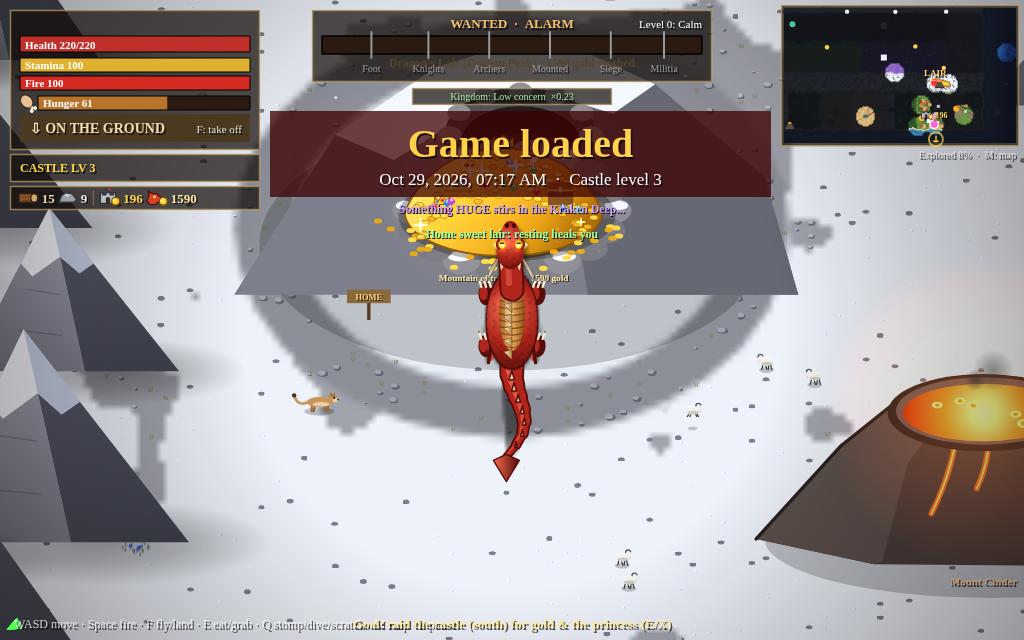
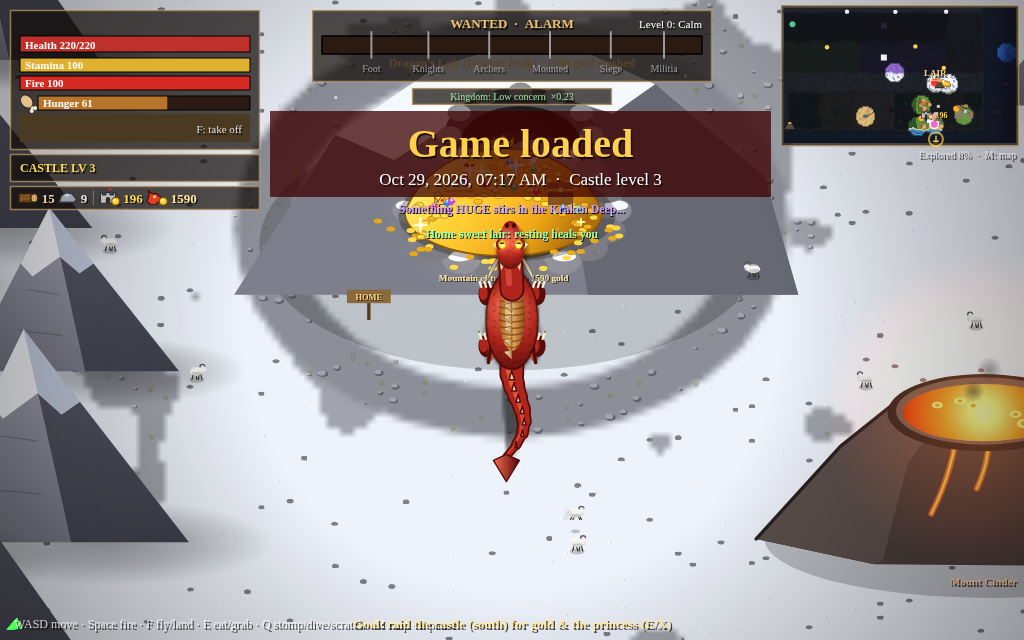
Fairies, vampire bats and seagull flocks (queue 38-40); drop FLYING/GROUND HUD label (46)

diff --git a/index.html b/index.html
@@ -8835,6 +8835,121 @@ function grDraw(){const x=grDown()?G.grX:GR.x,y=grDown()?G.grY:GR.y;if(x==null||
 {const _ng=newGame;newGame=function(){const r=_ng.apply(this,arguments);GR.on=false;GR.koT=0;GR.act=null;GR.foe=null;GR.mode='walk';GR.alt=0;return r;};}
 // after a load: re-read his place/health from G
 {const _sa=svApply;svApply=function(){const r=_sa.apply(this,arguments);GR.on=false;GR.act=null;GR.koT=0;HYD.on=false;HYD.P=[];return r;};}
+// ======================= queue 38-40 (batch 3): FAIRIES, VAMPIRE BATS, SEAGULL FLOCKS =======================
+// All three live in the shared `birds` list, so the breath, the lava splash and the bird bites reach them like any bird, but they are
+// owned here: spawned lazily only near the dragon (perf), kept on their homes/flocks, refilled over time (respawn), drawn with their own art.
+//  38 fairies: glowing pixies with a sparkle trail around the elven glow trees, glades and Shire meadows (light lands). They flit, dart away
+//     from the dragon (and sometimes dodge a snap); a brave one may give a tiny pixie-dust sting (-1). Gulp = a puff of sparkles, small food.
+//  39 vampire bats: cartoony, red glowing eyes, small swarms at the dark caves, burnt trees and dark towers. Erratic flight; they swoop in
+//     for a tiny nibble (-1) and the bat gets a little red-sparkle "heal". No blood, no gore.
+//  40 seagulls: flocks over every sea (south sea, east sea, the northern sea beyond the wind wall), around trade ships, the dock and the
+//     lighthouse; they glide in circles, land on beaches and the dock, scatter and squawk when the dragon comes.
+Object.assign(BIRD,{fairy:{heal:2,pts:20,sp:150,col:'#fff0ff',hp:1},vbat:{heal:2,pts:15,sp:170,col:'#3a2846',hp:1}});
+FOOD.fairy=3;FOOD.vbat=3;
+const B3={homes:null,flocks:[],t:0,ft:0,stats:{},cur:[]};
+const B3K={fairyN:4,batN:5,flockMax:3,near:1500,far:2500,refill:12,flockNear:1300,flockFar:2600};
+const B3_FC=['#ffb0e8','#b8f0a0','#a8d8ff','#ffe28a','#d8b0ff'];
+function b3Pick(list,minD,max){const out=[];for(const o of list){if(out.length>=max)break;if(out.every(p=>Math.hypot(p.x-o.x,p.y-o.y)>=minD))out.push({x:o.x,y:o.y});}return out;}
+function b3Homes(){if(B3.homes)return B3.homes;const H=[],pref=ks=>{const a=[];for(const k of ks)for(const o of DECOR)if(o.k===k)a.push(o);return a;};
+  for(const p of b3Pick(pref(['atglade','glowtree','flowerbed']).filter(o=>grLight(o.x,o.y)),1200,16))H.push({k:'fairy',x:p.x,y:p.y-20,n:0,lost:0,rt:0,on:false});
+  for(const p of b3Pick(pref(['atcave','cyccave','gobtower','dctower','deadtree']).filter(o=>{const r=nrRealm(o.x,o.y);return !!r&&NR_DARK.has(r);}),1300,14))H.push({k:'vbat',x:p.x,y:p.y-30,n:0,lost:0,rt:0,on:false});
+  return B3.homes=H;}
+function b3St(k){B3.stats[k]=(B3.stats[k]||0)+1;}
+function b3SpawnHome(h){const cap=(h.k==='fairy'?B3K.fairyN:B3K.batN)-h.lost;for(let i=h.n;i<cap;i++){const a=R(0,TAU),r=R(30,140);
+    birds.push(mkBird(h.k,h.x+Math.cos(a)*r,h.y+Math.sin(a)*r*.6,{state:'fly',z:R(35,80),b3:h.k,b3h:h,ph:R(0,TAU),cd:R(2,6),md:'home',mt:0,brave:h.k==='fairy'&&rnd()<.35,c1:B3_FC[RI(0,B3_FC.length-1)]}));h.n++;b3St(h.k+'Spawn');}}
+function b3Side(x,y){return y<nrEdge(x)?-1:1;}
+function b3KeepSide(b,side){const e=nrEdge(b.x);if(side<0&&b.y>e-30)b.y=e-30;if(side>0&&b.y<e+30)b.y=e+30;}
+// a landing spot near a sea point: the first dry ground in 8 directions
+function b3Land(x,y){for(let r=120;r<=480;r+=120)for(let i=0;i<8;i++){const a=i*TAU/8,px=x+Math.cos(a)*r,py=y+Math.sin(a)*r;if(!inWater(px,py)&&px>WX0+200&&px<WX1-200&&py>WY0+200&&py<WY1-200)return{x:px,y:py};}return null;}
+function b3NewFlock(c){const f={cx:c.x,cy:c.y,ship:c.ship||null,tag:c.tag,side:b3Side(c.x,c.y),land:c.land||null,md:'circle',mt:R(14,24),sq:0,n:0,want:RI(4,6),rt:0};
+  for(let i=0;i<f.want;i++)b3AddGull(f);B3.flocks.push(f);b3St('flocks');return f;}
+function b3AddGull(f){const a=R(0,TAU),r=R(90,190);birds.push(mkBird('gull',f.cx+Math.cos(a)*r,f.cy+Math.sin(a)*r*.6,{state:'fly',z:R(45,85),b3:'gull',fl:f,ph:a,rr:r,lx:R(-60,60),ly:R(-30,30),flap:R(0,6)}));f.n++;b3St('gullSpawn');}
+function b3FlockSpots(){const out=[];const near=(x,y)=>Math.abs(x-D.x)<B3K.flockNear&&Math.abs(y-D.y)<B3K.flockNear;
+  for(const s of ships)if(s.state!=='sink'&&near(s.x,s.y))out.push({x:s.x,y:s.y,ship:s,tag:'ship'});
+  if(typeof DOCK!=='undefined'&&near(DOCK.x,DOCK.y))out.push({x:DOCK.x,y:DOCK.y,land:{x:DOCK.x,y:DOCK.y},tag:'dock'});
+  if(typeof LH!=='undefined'&&near(LH.x,LH.y))out.push({x:LH.x+R(-120,120),y:LH.y+R(-80,80),land:{x:LH.x,y:LH.y},tag:'lighthouse'});
+  for(let i=0;i<6;i++){const a=R(0,TAU),r=R(450,1150),x=D.x+Math.cos(a)*r,y=D.y+Math.sin(a)*r;if(x<WX0+300||x>WX1-300||y<WY0+300||y>WY1-300||!inSea(x,y))continue;const l=b3Land(x,y);out.push({x,y,land:l,tag:l?'coast':'sea'});}
+  return out;}
+function b3Spawner(dt){B3.ft-=dt;if(B3.ft>0)return;B3.ft=.5;const H=b3Homes();
+  for(const h of H){const d=Math.hypot(h.x-D.x,h.y-D.y);
+    if(!h.on&&d<B3K.near){h.on=true;h.n=0;b3SpawnHome(h);}
+    else if(h.on&&d>B3K.far){h.on=false;for(const b of B3.cur)if(b.b3h===h){b.dead=true;b.gone=1;}h.n=0;}
+    if(h.lost>0){h.rt+=.5;if(h.rt>=B3K.refill&&d>700){h.rt=0;h.lost--;b3St(h.k+'Respawn');if(h.on)b3SpawnHome(h);}}}
+  for(let i=B3.flocks.length-1;i>=0;i--){const f=B3.flocks[i];if(f.ship&&(f.ship.state==='sink'||!ships.includes(f.ship)))f.ship=null;
+    if(Math.hypot(f.cx-D.x,f.cy-D.y)>B3K.flockFar||f.n<=0&&f.want<=0){for(const b of B3.cur)if(b.fl===f){b.dead=true;b.gone=1;}B3.flocks.splice(i,1);continue;}
+    if(f.n<f.want){f.rt+=.5;if(f.rt>15&&Math.hypot(f.cx-D.x,f.cy-D.y)>700){f.rt=0;b3AddGull(f);b3St('gullRespawn');}}}
+  B3.gt=(B3.gt||0)-.5;if(B3.gt<=0&&B3.flocks.length<B3K.flockMax){B3.gt=2;const sp=b3FlockSpots();sp.sort((p,q)=>(q.ship?1:0)-(p.ship?1:0));if(!B3.flocks.some(f=>f.land)){const i=sp.findIndex(c=>c.land);if(i>0)sp.unshift(sp.splice(i,1)[0]);}
+    for(const c of sp){if(B3.flocks.length>=B3K.flockMax)break;if(B3.flocks.some(f=>(c.ship&&f.ship===c.ship)||Math.hypot(f.cx-c.x,f.cy-c.y)<700))continue;b3NewFlock(c);}}}
+function b3Move(b,tx,ty,sp,dt,k){const dx=tx-b.x,dy=ty-b.y,d=Math.hypot(dx,dy)||1,v=Math.min(sp,d/Math.max(dt,.001));b.vx+=((dx/d)*v-b.vx)*Math.min(1,dt*(k||4));b.vy+=((dy/d)*v-b.vy)*Math.min(1,dt*(k||4));b.x+=b.vx*dt;b.y+=b.vy*dt;}
+function b3Fairy(b,dt){const h=b.b3h,dx=b.x-D.x,dy=b.y-D.y,dd=Math.hypot(dx,dy);b.cd-=dt;b.mt-=dt;b.flap+=dt*34;
+  if(b.md==='home'&&dd<230&&!G.over){if(b.brave&&b.cd<=0){b.md='sting';b.mt=1.3;}else{b.md='flee';b.mt=R(1.1,2);b.da=Math.atan2(dy,dx)+R(-.8,.8);b.dt2=.3;}}
+  if(b.md==='flee'){b.dt2-=dt;if(b.dt2<=0){b.dt2=R(.2,.4);b.da=Math.atan2(dy,dx)+R(-.9,.9);}b3Move(b,b.x+Math.cos(b.da)*200,b.y+Math.sin(b.da)*200,BIRD.fairy.sp*1.5,dt,7);b.z+=(R(60,110)-b.z)*Math.min(1,dt*3);if(b.mt<=0)b.md='home';}
+  else if(b.md==='sting'){b3Move(b,D.x,D.y-10,BIRD.fairy.sp*1.7,dt,8);b.z+=(Math.min(110,heightOf()+20)-b.z)*Math.min(1,dt*4);
+    if(dd<46&&!G.over){hurtDragon(1,'fairy');sparkle(D.x,D.y-heightOf()-30,8);float(D.x+R(-15,15),D.y-heightOf()-80,'Pixie-dust sting! -1','#ffd8ff');b.cd=R(8,12);b.md='flee';b.mt=1.5;b.da=Math.atan2(dy,dx);b.dt2=.3;b3St('fairyStings');}
+    else if(b.mt<=0){b.md='flee';b.mt=1;b.cd=R(4,6);b.da=Math.atan2(dy,dx);b.dt2=.3;}}
+  else{b.ph+=dt*(1.2+(b.id%3)*.3);const r=70+40*Math.sin(b.ph*.7+b.id),tx=h.x+Math.cos(b.ph)*r,ty=h.y+Math.sin(b.ph*1.3)*r*.6;b3Move(b,tx,ty,BIRD.fairy.sp*.6,dt,3);b.z+=(45+20*Math.sin(G.t*2+b.id)-b.z)*Math.min(1,dt*2);}
+  if(Math.hypot(b.x-h.x,b.y-h.y)>650){b.md='home';}}
+function b3Bat(b,dt,swoopers){const h=b.b3h,dx=D.x-b.x,dy=D.y-b.y,dd=Math.hypot(dx,dy);b.cd-=dt;b.mt-=dt;b.flap+=dt*26;if(b.full>0)b.full-=dt;
+  if(b.md==='home'&&dd<520&&b.cd<=0&&swoopers.n<2&&!G.over&&Math.hypot(D.x-h.x,D.y-h.y)<900){b.md='swoop';b.mt=2.6;swoopers.n++;}
+  if(b.md==='swoop'){const j=Math.sin(G.t*13+b.id)*60*Math.min(1,Math.max(0,dd-60)/240);b3Move(b,D.x-dy/(dd||1)*j,D.y+dx/(dd||1)*j,BIRD.vbat.sp*1.6,dt,6);b.z+=(heightOf()+18-b.z)*Math.min(1,dt*4);
+    if(dd<44&&!G.over){hurtDragon(1,'bat');float(D.x+R(-15,15),D.y-heightOf()-80,'Nibble! -1','#ff9aa8');b.full=1.4;puff(b.x,b.y-b.z,5,'rgba(255,70,100,',40,3);float(b.x,b.y-b.z-14,'+♥','#ff5a7a');b.cd=R(4,7);b.md='back';b.mt=2;b3St('batNibbles');}
+    else if(b.mt<=0){b.md='back';b.mt=2;b.cd=R(2,4);}}
+  else{if(b.md==='back'&&b.mt<=0)b.md='home';b.ph+=dt*(1.6+(b.id%4)*.25);const tx=h.x+Math.cos(b.ph)*130+Math.sin(G.t*4.3+b.id)*45,ty=h.y+Math.sin(b.ph*1.4)*80+Math.cos(G.t*3.7+b.id)*35;
+    b3Move(b,tx+R(-40,40),ty+R(-40,40),BIRD.vbat.sp*(b.md==='back'?1.2:.8),dt,5);b.z+=(80+35*Math.sin(G.t*3+b.id)-b.z)*Math.min(1,dt*3);}}
+function b3Gull(b,dt){const f=b.fl,dx=b.x-D.x,dy=b.y-D.y,dd=Math.hypot(dx,dy);b.flap+=dt*(b.state==='ground'?0:9);
+  if(dd<240&&f.md!=='scatter'&&!G.over){f.md='scatter';f.mt=R(3,4);if(f.sq<=0){f.sq=2.5;float(b.x,b.y-b.z-20,RI(0,1)?'Squawk!':'SQUAWK!','#f4f4f0');b3St('squawks');}}
+  if(f.md==='scatter'){b.state='fly';const a=Math.atan2(dy,dx)+Math.sin(b.id)*.6;b3Move(b,b.x+Math.cos(a)*200,b.y+Math.sin(a)*200,BIRD.gull.sp*1.5,dt,5);b.z+=(140-b.z)*Math.min(1,dt*1.5);}
+  else if(f.md==='land'&&f.land){const tx=f.land.x+b.lx,ty=f.land.y+b.ly;if(Math.hypot(tx-b.x,ty-b.y)<8){b.x=tx;b.y=ty;b.vx=b.vy=0;b.z=Math.max(0,b.z-dt*60);if(b.z<=0)b.state='ground';}else{b.state='fly';b3Move(b,tx,ty,BIRD.gull.sp,dt,4);b.z+=(20-b.z)*Math.min(1,dt*1.5);}}
+  else{b.state='fly';b.ph+=dt*.55;const tx=f.cx+Math.cos(b.ph)*b.rr,ty=f.cy+Math.sin(b.ph)*b.rr*.6;b3Move(b,tx,ty,BIRD.gull.sp*1.1,dt,3);b.z+=(65+18*Math.sin(G.t*.8+b.id)-b.z)*Math.min(1,dt*1.2);}
+  b3KeepSide(b,f.side);}
+function b3Flocks(dt){for(const f of B3.flocks){f.sq-=dt;f.mt-=dt;if(f.ship&&f.md!=='land'){f.cx+=(f.ship.x-f.cx)*Math.min(1,dt*2);f.cy+=(f.ship.y-f.cy)*Math.min(1,dt*2);}
+    if(f.mt<=0){if(f.md==='circle'&&f.land&&Math.hypot(f.land.x-D.x,f.land.y-D.y)>600){f.md='land';f.mt=R(8,12);b3St('flockLandings');}else{f.md='circle';f.mt=R(14,24);}}}}
+function b3Upd(dt,mine){B3.cur=mine;b3Spawner(dt);b3Flocks(dt);const sw={n:0};for(const b of mine)if(b.kind==='vbat'&&b.md==='swoop'&&!b.dead)sw.n++;
+  for(const b of mine){if(b.dead)continue;if(b.kind==='fairy')b3Fairy(b,dt);else if(b.kind==='vbat')b3Bat(b,dt,sw);else if(b.fl)b3Gull(b,dt);}}
+{const _ub=updBirds;updBirds=function(dt){let mine=null;for(const b of birds)if(b.b3){mine=[];break;}
+  if(mine){let j=0;for(let i=0;i<birds.length;i++){const b=birds[i];if(b.b3)mine.push(b);else birds[j++]=b;}birds.length=j;}
+  const r=_ub.apply(this,arguments);mine=mine||[];
+  if(scene==='play'&&G&&!G.over)b3Upd(dt,mine);B3.cur=[];for(const b of birds)if(b.b3&&mine.indexOf(b)<0)mine.push(b); // newly spawned this frame
+  {let j=0;for(let i=0;i<birds.length;i++)if(!birds[i].b3)birds[j++]=birds[i];birds.length=j;}
+  for(const b of mine){if(!b.dead){birds.push(b);continue;}if(b.gone)continue;if(b.b3h){b.b3h.n=Math.max(0,b.b3h.n-1);b.b3h.lost++;}if(b.fl){b.fl.n=Math.max(0,b.fl.n-1);}}
+  return r;};}
+// eating: a low fairy/bat/gull can be snapped from the ground too (they hover low), and from the air; fairies sometimes dart aside
+function b3Eat(){if(D.eatCD>0)return false;const air=D.alt>=.5,mx=D.x+Math.cos(D.ang)*80,my=D.y+Math.sin(D.ang)*80;let best=null,bd=1e9;
+  for(const b of birds){if(!b.b3||b.dead)continue;if(!air&&(b.z>100||b.state==='ground'))continue;if(air&&b.state==='ground')continue;
+    const d=Math.min(Math.hypot(b.x-mx,b.y-my),Math.hypot(b.x-D.x,b.y-D.y)+12);if(d<72&&d<bd){bd=d;best=b;}}
+  if(!best)return false;D.eatT=.3;const y=best.y-best.z;
+  if(best.kind==='fairy'&&!best.dodged&&rnd()<.35){best.dodged=1;D.eatCD=.4;best.md='flee';best.mt=1.5;best.da=Math.atan2(best.y-D.y,best.x-D.x);best.dt2=.3;sparkle(best.x,y,6);float(best.x,y-18,'Missed! The fairy darted away','#ffe0ff');b3St('fairyDodges');return true;}
+  best.dead=true;const B=BIRD[best.kind];D.eatCD=air?.6:.4;D.hp=Math.min(D.maxHp,D.hp+B.heal);D.healFx=.6;try{feed(B.heal);}catch(e){}try{glutEat(foodOf(best.kind));}catch(e){}try{tallyAdd(best.kind);}catch(e){}
+  G.stats.birds=(G.stats.birds||0)+1;G.stats.birdPts=(G.stats.birdPts||0)+B.pts;b3St(best.kind+'Eaten');float(D.x+R(-10,10),D.y-heightOf()-70,`+${B.heal} HP`,'#6dff7a');
+  if(best.kind==='fairy'){sparkle(best.x,y,12);puff(best.x,y,8,'rgba(255,240,200,',60,4);float(best.x,y-18,`Gulp! *poof of sparkles* +${B.pts} pts`,'#ffe8ff');}
+  else if(best.kind==='vbat'){puff(best.x,y,7,'rgba(120,90,140,',60,4);float(best.x,y-18,`Gulp! Bat snack +${B.pts} pts`,'#e0c8ff');}
+  else{puff(best.x,y,8,'rgba(240,240,235,',70,4);float(best.x,y-18,`Snack! +${B.pts} pts`,'#ffd27a');}
+  return true;}
+// the northern barrier keeps every bird out of the north - except these, which belong there (and the gulls hold their own side)
+{const _ko=nrKeepOut;nrKeepOut=function(){const H=[];for(const b of birds)if(b.b3&&!b.dead){b.dead=true;H.push(b);}try{return _ko.apply(this,arguments);}finally{for(const b of H)b.dead=false;}};}
+{const _te=tryEatBird;tryEatBird=function(){if(b3Eat())return true;return _te.apply(this,arguments);};}
+// fire: fairies vanish in a sparkle puff, bats flap off dizzy (no remains)
+{const _ko=birdKO;birdKO=function(b,why){if(b.dead||(b.kind!=='fairy'&&b.kind!=='vbat'))return _ko.apply(this,arguments);b.dead=true;const B=BIRD[b.kind],y=b.y-(b.z||0);
+  G.stats.birdsSinged=(G.stats.birdsSinged||0)+1;G.stats.birdPts=(G.stats.birdPts||0)+B.pts;b3St(b.kind+'Singed');
+  if(b.kind==='fairy'){sparkle(b.x,y,10);puff(b.x,y,6,'rgba(255,230,200,',60,4);float(b.x,y-16,`Poof! The fairy zips off dizzy +${B.pts} pts`,'#ffe8ff');}
+  else{puff(b.x,y,6,'rgba(90,70,100,',60,4);float(b.x,y-16,`${why} The bat flaps off dizzy +${B.pts} pts`,'#e0c8ff');}};}
+// art
+function b3DrawFairy(b){const x=b.x,y=b.y-b.z,w=Math.sin(b.flap),gl=.5+.3*Math.sin(G.t*6+b.ph),c=b.c1||'#ffb0e8';
+  ell(b.x,b.y,5,2,'rgba(0,0,0,.12)');
+  for(let i=1;i<=4;i++){const tx=x-(b.vx||0)*.035*i,ty=y-(b.vy||0)*.035*i+i*1.5;ell(tx,ty,3-i*.55,3-i*.55,`rgba(255,240,170,${.6-i*.13})`);}
+  ell(x,y,13,13,`rgba(255,240,190,${.18*gl+.08})`);ell(x,y,7,7,`rgba(255,250,220,${.25*gl+.1})`);
+  ctx.globalAlpha=.7;ell(x-6,y-4-w*3,7,3.5+w*1.8,'#d8f4ff');ell(x+6,y-4-w*3,7,3.5+w*1.8,'#d8f4ff');ctx.globalAlpha=1;
+  ell(x,y+1.5,3,5,c);ell(x,y-5,3,3,'#ffe2c8');ell(x,y-7,3.2,1.6,c);
+  if(((G.fc||0)+b.id)%9===0)txt('✦',x+R(-10,10),y+R(-10,8),7,'#fff8c0','center',false);}
+function b3DrawBat(b){const x=b.x,y=b.y-b.z,w=Math.sin(b.flap),c='#3a2846',c2='#5c3c6e';
+  ell(b.x,b.y,7,2.4,'rgba(0,0,0,.15)');
+  poly([x-3,y-1,x-15,y-8-w*8,x-20,y-1-w*3,x-14,y+1-w*2,x-10,y+4],c2);poly([x+3,y-1,x+15,y-8-w*8,x+20,y-1-w*3,x+14,y+1-w*2,x+10,y+4],c2);
+  ell(x,y,5,6,c);poly([x-4.5,y-3,x-3.5,y-11,x-1,y-5],c);poly([x+4.5,y-3,x+3.5,y-11,x+1,y-5],c);
+  ell(x-2,y-1.5,2.6,2.6,'rgba(255,40,60,.35)');ell(x+2,y-1.5,2.6,2.6,'rgba(255,40,60,.35)');ell(x-2,y-1.5,1.2,1.2,'#ff3040');ell(x+2,y-1.5,1.2,1.2,'#ff3040');
+  if(b.full>0)txt('✦',x+R(-8,8),y-12+R(-4,4),8,'#ff6a8a','center',false);}
+{const _db=drawBird;drawBird=function(b,fly){if(b.kind==='fairy'){ctx.save();ctx.translate(b.x,b.y);ctx.scale(1.45,1.45);ctx.translate(-b.x,-b.y);try{return b3DrawFairy(b);}finally{ctx.restore();}}if(b.kind==='vbat')return b3DrawBat(b);return _db.apply(this,arguments);};}
+{const _ng=newGame;newGame=function(){const r=_ng.apply(this,arguments);B3.flocks.length=0;if(B3.homes)for(const h of B3.homes){h.on=false;h.n=0;h.lost=0;h.rt=0;}return r;};}
+{const _sa=svApply;svApply=function(){const r=_sa.apply(this,arguments);B3.flocks.length=0;if(B3.homes)for(const h of B3.homes){h.on=false;h.n=0;}for(const b of birds)if(b.b3){b.dead=true;b.gone=1;}return r;};}
 // ---- 45. phone-landscape HUD: the region banner and the big announcement banner are drawn LAST, as the bottom slot of the HUD centre lane (part6 hudSlot), so it never covers a bar ----
 const HUD_BANNER_LAST=1;
 {const _h=drawHUD;drawHUD=function(){_h.apply(this,arguments);ctx.setTransform(DPR,0,0,DPR,0,0);drawRegionBanner();if(!G.over&&!G.won&&!paused)drawAnnounce(VW<760);else UI.banner=null;};}
@@ -8941,7 +9056,8 @@ function drawHUD(){ctx.setTransform(DPR,0,0,DPR,0,0);const sm=VW<760;UI.boxes=[]
     if(st){ctx.strokeStyle=`rgba(255,60,60,${pl})`;ctx.lineWidth=2;ctx.strokeRect(37,77+fb,214,16);
       if(!G.over&&!G.won)txt('⚠ STARVING! Eat a villager or animal! ⚠',VW/2,VH*.30,VW<760?18:24,`rgba(255,${Math.round(90+90*pl)},${Math.round(60+60*pl)},1)`,'center');}}
   const air=D.mode==='air';rect(20,78+hy,230,28,air?'#2a4a7a':'#4a3a22');
-  txt(air?(D.alt<.95?'⇧ TAKING OFF…':'⇧ FLYING'):(D.swim?'≈ SWIMMING (slower)':D.alt>0.02?'⇩ LANDING…':'⇩ ON THE GROUND'),30,97+hy,14,air?'#cfe6ff':'#f2dcb0');
+  // (item 46) no FLYING / ON THE GROUND label - the dragon's wings already show it; only the swim note + the F hint stay
+  if(!air&&D.swim)txt('≈ SWIMMING (slower)',30,97+hy,14,'#f2dcb0');
   txt(air?'F: land':'F: take off',242,97+hy,11,'#ddd','right',false);
   // wanted meter
   const cmpW=sm||hudLaneW()<260; // no room for the full WANTED panel: compact bar in the left column instead

diff --git a/partNR.js b/partNR.js
@@ -1587,6 +1587,121 @@ function grDraw(){const x=grDown()?G.grX:GR.x,y=grDown()?G.grY:GR.y;if(x==null||
 {const _ng=newGame;newGame=function(){const r=_ng.apply(this,arguments);GR.on=false;GR.koT=0;GR.act=null;GR.foe=null;GR.mode='walk';GR.alt=0;return r;};}
 // after a load: re-read his place/health from G
 {const _sa=svApply;svApply=function(){const r=_sa.apply(this,arguments);GR.on=false;GR.act=null;GR.koT=0;HYD.on=false;HYD.P=[];return r;};}
+// ======================= queue 38-40 (batch 3): FAIRIES, VAMPIRE BATS, SEAGULL FLOCKS =======================
+// All three live in the shared `birds` list, so the breath, the lava splash and the bird bites reach them like any bird, but they are
+// owned here: spawned lazily only near the dragon (perf), kept on their homes/flocks, refilled over time (respawn), drawn with their own art.
+//  38 fairies: glowing pixies with a sparkle trail around the elven glow trees, glades and Shire meadows (light lands). They flit, dart away
+//     from the dragon (and sometimes dodge a snap); a brave one may give a tiny pixie-dust sting (-1). Gulp = a puff of sparkles, small food.
+//  39 vampire bats: cartoony, red glowing eyes, small swarms at the dark caves, burnt trees and dark towers. Erratic flight; they swoop in
+//     for a tiny nibble (-1) and the bat gets a little red-sparkle "heal". No blood, no gore.
+//  40 seagulls: flocks over every sea (south sea, east sea, the northern sea beyond the wind wall), around trade ships, the dock and the
+//     lighthouse; they glide in circles, land on beaches and the dock, scatter and squawk when the dragon comes.
+Object.assign(BIRD,{fairy:{heal:2,pts:20,sp:150,col:'#fff0ff',hp:1},vbat:{heal:2,pts:15,sp:170,col:'#3a2846',hp:1}});
+FOOD.fairy=3;FOOD.vbat=3;
+const B3={homes:null,flocks:[],t:0,ft:0,stats:{},cur:[]};
+const B3K={fairyN:4,batN:5,flockMax:3,near:1500,far:2500,refill:12,flockNear:1300,flockFar:2600};
+const B3_FC=['#ffb0e8','#b8f0a0','#a8d8ff','#ffe28a','#d8b0ff'];
+function b3Pick(list,minD,max){const out=[];for(const o of list){if(out.length>=max)break;if(out.every(p=>Math.hypot(p.x-o.x,p.y-o.y)>=minD))out.push({x:o.x,y:o.y});}return out;}
+function b3Homes(){if(B3.homes)return B3.homes;const H=[],pref=ks=>{const a=[];for(const k of ks)for(const o of DECOR)if(o.k===k)a.push(o);return a;};
+  for(const p of b3Pick(pref(['atglade','glowtree','flowerbed']).filter(o=>grLight(o.x,o.y)),1200,16))H.push({k:'fairy',x:p.x,y:p.y-20,n:0,lost:0,rt:0,on:false});
+  for(const p of b3Pick(pref(['atcave','cyccave','gobtower','dctower','deadtree']).filter(o=>{const r=nrRealm(o.x,o.y);return !!r&&NR_DARK.has(r);}),1300,14))H.push({k:'vbat',x:p.x,y:p.y-30,n:0,lost:0,rt:0,on:false});
+  return B3.homes=H;}
+function b3St(k){B3.stats[k]=(B3.stats[k]||0)+1;}
+function b3SpawnHome(h){const cap=(h.k==='fairy'?B3K.fairyN:B3K.batN)-h.lost;for(let i=h.n;i<cap;i++){const a=R(0,TAU),r=R(30,140);
+    birds.push(mkBird(h.k,h.x+Math.cos(a)*r,h.y+Math.sin(a)*r*.6,{state:'fly',z:R(35,80),b3:h.k,b3h:h,ph:R(0,TAU),cd:R(2,6),md:'home',mt:0,brave:h.k==='fairy'&&rnd()<.35,c1:B3_FC[RI(0,B3_FC.length-1)]}));h.n++;b3St(h.k+'Spawn');}}
+function b3Side(x,y){return y<nrEdge(x)?-1:1;}
+function b3KeepSide(b,side){const e=nrEdge(b.x);if(side<0&&b.y>e-30)b.y=e-30;if(side>0&&b.y<e+30)b.y=e+30;}
+// a landing spot near a sea point: the first dry ground in 8 directions
+function b3Land(x,y){for(let r=120;r<=480;r+=120)for(let i=0;i<8;i++){const a=i*TAU/8,px=x+Math.cos(a)*r,py=y+Math.sin(a)*r;if(!inWater(px,py)&&px>WX0+200&&px<WX1-200&&py>WY0+200&&py<WY1-200)return{x:px,y:py};}return null;}
+function b3NewFlock(c){const f={cx:c.x,cy:c.y,ship:c.ship||null,tag:c.tag,side:b3Side(c.x,c.y),land:c.land||null,md:'circle',mt:R(14,24),sq:0,n:0,want:RI(4,6),rt:0};
+  for(let i=0;i<f.want;i++)b3AddGull(f);B3.flocks.push(f);b3St('flocks');return f;}
+function b3AddGull(f){const a=R(0,TAU),r=R(90,190);birds.push(mkBird('gull',f.cx+Math.cos(a)*r,f.cy+Math.sin(a)*r*.6,{state:'fly',z:R(45,85),b3:'gull',fl:f,ph:a,rr:r,lx:R(-60,60),ly:R(-30,30),flap:R(0,6)}));f.n++;b3St('gullSpawn');}
+function b3FlockSpots(){const out=[];const near=(x,y)=>Math.abs(x-D.x)<B3K.flockNear&&Math.abs(y-D.y)<B3K.flockNear;
+  for(const s of ships)if(s.state!=='sink'&&near(s.x,s.y))out.push({x:s.x,y:s.y,ship:s,tag:'ship'});
+  if(typeof DOCK!=='undefined'&&near(DOCK.x,DOCK.y))out.push({x:DOCK.x,y:DOCK.y,land:{x:DOCK.x,y:DOCK.y},tag:'dock'});
+  if(typeof LH!=='undefined'&&near(LH.x,LH.y))out.push({x:LH.x+R(-120,120),y:LH.y+R(-80,80),land:{x:LH.x,y:LH.y},tag:'lighthouse'});
+  for(let i=0;i<6;i++){const a=R(0,TAU),r=R(450,1150),x=D.x+Math.cos(a)*r,y=D.y+Math.sin(a)*r;if(x<WX0+300||x>WX1-300||y<WY0+300||y>WY1-300||!inSea(x,y))continue;const l=b3Land(x,y);out.push({x,y,land:l,tag:l?'coast':'sea'});}
+  return out;}
+function b3Spawner(dt){B3.ft-=dt;if(B3.ft>0)return;B3.ft=.5;const H=b3Homes();
+  for(const h of H){const d=Math.hypot(h.x-D.x,h.y-D.y);
+    if(!h.on&&d<B3K.near){h.on=true;h.n=0;b3SpawnHome(h);}
+    else if(h.on&&d>B3K.far){h.on=false;for(const b of B3.cur)if(b.b3h===h){b.dead=true;b.gone=1;}h.n=0;}
+    if(h.lost>0){h.rt+=.5;if(h.rt>=B3K.refill&&d>700){h.rt=0;h.lost--;b3St(h.k+'Respawn');if(h.on)b3SpawnHome(h);}}}
+  for(let i=B3.flocks.length-1;i>=0;i--){const f=B3.flocks[i];if(f.ship&&(f.ship.state==='sink'||!ships.includes(f.ship)))f.ship=null;
+    if(Math.hypot(f.cx-D.x,f.cy-D.y)>B3K.flockFar||f.n<=0&&f.want<=0){for(const b of B3.cur)if(b.fl===f){b.dead=true;b.gone=1;}B3.flocks.splice(i,1);continue;}
+    if(f.n<f.want){f.rt+=.5;if(f.rt>15&&Math.hypot(f.cx-D.x,f.cy-D.y)>700){f.rt=0;b3AddGull(f);b3St('gullRespawn');}}}
+  B3.gt=(B3.gt||0)-.5;if(B3.gt<=0&&B3.flocks.length<B3K.flockMax){B3.gt=2;const sp=b3FlockSpots();sp.sort((p,q)=>(q.ship?1:0)-(p.ship?1:0));if(!B3.flocks.some(f=>f.land)){const i=sp.findIndex(c=>c.land);if(i>0)sp.unshift(sp.splice(i,1)[0]);}
+    for(const c of sp){if(B3.flocks.length>=B3K.flockMax)break;if(B3.flocks.some(f=>(c.ship&&f.ship===c.ship)||Math.hypot(f.cx-c.x,f.cy-c.y)<700))continue;b3NewFlock(c);}}}
+function b3Move(b,tx,ty,sp,dt,k){const dx=tx-b.x,dy=ty-b.y,d=Math.hypot(dx,dy)||1,v=Math.min(sp,d/Math.max(dt,.001));b.vx+=((dx/d)*v-b.vx)*Math.min(1,dt*(k||4));b.vy+=((dy/d)*v-b.vy)*Math.min(1,dt*(k||4));b.x+=b.vx*dt;b.y+=b.vy*dt;}
+function b3Fairy(b,dt){const h=b.b3h,dx=b.x-D.x,dy=b.y-D.y,dd=Math.hypot(dx,dy);b.cd-=dt;b.mt-=dt;b.flap+=dt*34;
+  if(b.md==='home'&&dd<230&&!G.over){if(b.brave&&b.cd<=0){b.md='sting';b.mt=1.3;}else{b.md='flee';b.mt=R(1.1,2);b.da=Math.atan2(dy,dx)+R(-.8,.8);b.dt2=.3;}}
+  if(b.md==='flee'){b.dt2-=dt;if(b.dt2<=0){b.dt2=R(.2,.4);b.da=Math.atan2(dy,dx)+R(-.9,.9);}b3Move(b,b.x+Math.cos(b.da)*200,b.y+Math.sin(b.da)*200,BIRD.fairy.sp*1.5,dt,7);b.z+=(R(60,110)-b.z)*Math.min(1,dt*3);if(b.mt<=0)b.md='home';}
+  else if(b.md==='sting'){b3Move(b,D.x,D.y-10,BIRD.fairy.sp*1.7,dt,8);b.z+=(Math.min(110,heightOf()+20)-b.z)*Math.min(1,dt*4);
+    if(dd<46&&!G.over){hurtDragon(1,'fairy');sparkle(D.x,D.y-heightOf()-30,8);float(D.x+R(-15,15),D.y-heightOf()-80,'Pixie-dust sting! -1','#ffd8ff');b.cd=R(8,12);b.md='flee';b.mt=1.5;b.da=Math.atan2(dy,dx);b.dt2=.3;b3St('fairyStings');}
+    else if(b.mt<=0){b.md='flee';b.mt=1;b.cd=R(4,6);b.da=Math.atan2(dy,dx);b.dt2=.3;}}
+  else{b.ph+=dt*(1.2+(b.id%3)*.3);const r=70+40*Math.sin(b.ph*.7+b.id),tx=h.x+Math.cos(b.ph)*r,ty=h.y+Math.sin(b.ph*1.3)*r*.6;b3Move(b,tx,ty,BIRD.fairy.sp*.6,dt,3);b.z+=(45+20*Math.sin(G.t*2+b.id)-b.z)*Math.min(1,dt*2);}
+  if(Math.hypot(b.x-h.x,b.y-h.y)>650){b.md='home';}}
+function b3Bat(b,dt,swoopers){const h=b.b3h,dx=D.x-b.x,dy=D.y-b.y,dd=Math.hypot(dx,dy);b.cd-=dt;b.mt-=dt;b.flap+=dt*26;if(b.full>0)b.full-=dt;
+  if(b.md==='home'&&dd<520&&b.cd<=0&&swoopers.n<2&&!G.over&&Math.hypot(D.x-h.x,D.y-h.y)<900){b.md='swoop';b.mt=2.6;swoopers.n++;}
+  if(b.md==='swoop'){const j=Math.sin(G.t*13+b.id)*60*Math.min(1,Math.max(0,dd-60)/240);b3Move(b,D.x-dy/(dd||1)*j,D.y+dx/(dd||1)*j,BIRD.vbat.sp*1.6,dt,6);b.z+=(heightOf()+18-b.z)*Math.min(1,dt*4);
+    if(dd<44&&!G.over){hurtDragon(1,'bat');float(D.x+R(-15,15),D.y-heightOf()-80,'Nibble! -1','#ff9aa8');b.full=1.4;puff(b.x,b.y-b.z,5,'rgba(255,70,100,',40,3);float(b.x,b.y-b.z-14,'+♥','#ff5a7a');b.cd=R(4,7);b.md='back';b.mt=2;b3St('batNibbles');}
+    else if(b.mt<=0){b.md='back';b.mt=2;b.cd=R(2,4);}}
+  else{if(b.md==='back'&&b.mt<=0)b.md='home';b.ph+=dt*(1.6+(b.id%4)*.25);const tx=h.x+Math.cos(b.ph)*130+Math.sin(G.t*4.3+b.id)*45,ty=h.y+Math.sin(b.ph*1.4)*80+Math.cos(G.t*3.7+b.id)*35;
+    b3Move(b,tx+R(-40,40),ty+R(-40,40),BIRD.vbat.sp*(b.md==='back'?1.2:.8),dt,5);b.z+=(80+35*Math.sin(G.t*3+b.id)-b.z)*Math.min(1,dt*3);}}
+function b3Gull(b,dt){const f=b.fl,dx=b.x-D.x,dy=b.y-D.y,dd=Math.hypot(dx,dy);b.flap+=dt*(b.state==='ground'?0:9);
+  if(dd<240&&f.md!=='scatter'&&!G.over){f.md='scatter';f.mt=R(3,4);if(f.sq<=0){f.sq=2.5;float(b.x,b.y-b.z-20,RI(0,1)?'Squawk!':'SQUAWK!','#f4f4f0');b3St('squawks');}}
+  if(f.md==='scatter'){b.state='fly';const a=Math.atan2(dy,dx)+Math.sin(b.id)*.6;b3Move(b,b.x+Math.cos(a)*200,b.y+Math.sin(a)*200,BIRD.gull.sp*1.5,dt,5);b.z+=(140-b.z)*Math.min(1,dt*1.5);}
+  else if(f.md==='land'&&f.land){const tx=f.land.x+b.lx,ty=f.land.y+b.ly;if(Math.hypot(tx-b.x,ty-b.y)<8){b.x=tx;b.y=ty;b.vx=b.vy=0;b.z=Math.max(0,b.z-dt*60);if(b.z<=0)b.state='ground';}else{b.state='fly';b3Move(b,tx,ty,BIRD.gull.sp,dt,4);b.z+=(20-b.z)*Math.min(1,dt*1.5);}}
+  else{b.state='fly';b.ph+=dt*.55;const tx=f.cx+Math.cos(b.ph)*b.rr,ty=f.cy+Math.sin(b.ph)*b.rr*.6;b3Move(b,tx,ty,BIRD.gull.sp*1.1,dt,3);b.z+=(65+18*Math.sin(G.t*.8+b.id)-b.z)*Math.min(1,dt*1.2);}
+  b3KeepSide(b,f.side);}
+function b3Flocks(dt){for(const f of B3.flocks){f.sq-=dt;f.mt-=dt;if(f.ship&&f.md!=='land'){f.cx+=(f.ship.x-f.cx)*Math.min(1,dt*2);f.cy+=(f.ship.y-f.cy)*Math.min(1,dt*2);}
+    if(f.mt<=0){if(f.md==='circle'&&f.land&&Math.hypot(f.land.x-D.x,f.land.y-D.y)>600){f.md='land';f.mt=R(8,12);b3St('flockLandings');}else{f.md='circle';f.mt=R(14,24);}}}}
+function b3Upd(dt,mine){B3.cur=mine;b3Spawner(dt);b3Flocks(dt);const sw={n:0};for(const b of mine)if(b.kind==='vbat'&&b.md==='swoop'&&!b.dead)sw.n++;
+  for(const b of mine){if(b.dead)continue;if(b.kind==='fairy')b3Fairy(b,dt);else if(b.kind==='vbat')b3Bat(b,dt,sw);else if(b.fl)b3Gull(b,dt);}}
+{const _ub=updBirds;updBirds=function(dt){let mine=null;for(const b of birds)if(b.b3){mine=[];break;}
+  if(mine){let j=0;for(let i=0;i<birds.length;i++){const b=birds[i];if(b.b3)mine.push(b);else birds[j++]=b;}birds.length=j;}
+  const r=_ub.apply(this,arguments);mine=mine||[];
+  if(scene==='play'&&G&&!G.over)b3Upd(dt,mine);B3.cur=[];for(const b of birds)if(b.b3&&mine.indexOf(b)<0)mine.push(b); // newly spawned this frame
+  {let j=0;for(let i=0;i<birds.length;i++)if(!birds[i].b3)birds[j++]=birds[i];birds.length=j;}
+  for(const b of mine){if(!b.dead){birds.push(b);continue;}if(b.gone)continue;if(b.b3h){b.b3h.n=Math.max(0,b.b3h.n-1);b.b3h.lost++;}if(b.fl){b.fl.n=Math.max(0,b.fl.n-1);}}
+  return r;};}
+// eating: a low fairy/bat/gull can be snapped from the ground too (they hover low), and from the air; fairies sometimes dart aside
+function b3Eat(){if(D.eatCD>0)return false;const air=D.alt>=.5,mx=D.x+Math.cos(D.ang)*80,my=D.y+Math.sin(D.ang)*80;let best=null,bd=1e9;
+  for(const b of birds){if(!b.b3||b.dead)continue;if(!air&&(b.z>100||b.state==='ground'))continue;if(air&&b.state==='ground')continue;
+    const d=Math.min(Math.hypot(b.x-mx,b.y-my),Math.hypot(b.x-D.x,b.y-D.y)+12);if(d<72&&d<bd){bd=d;best=b;}}
+  if(!best)return false;D.eatT=.3;const y=best.y-best.z;
+  if(best.kind==='fairy'&&!best.dodged&&rnd()<.35){best.dodged=1;D.eatCD=.4;best.md='flee';best.mt=1.5;best.da=Math.atan2(best.y-D.y,best.x-D.x);best.dt2=.3;sparkle(best.x,y,6);float(best.x,y-18,'Missed! The fairy darted away','#ffe0ff');b3St('fairyDodges');return true;}
+  best.dead=true;const B=BIRD[best.kind];D.eatCD=air?.6:.4;D.hp=Math.min(D.maxHp,D.hp+B.heal);D.healFx=.6;try{feed(B.heal);}catch(e){}try{glutEat(foodOf(best.kind));}catch(e){}try{tallyAdd(best.kind);}catch(e){}
+  G.stats.birds=(G.stats.birds||0)+1;G.stats.birdPts=(G.stats.birdPts||0)+B.pts;b3St(best.kind+'Eaten');float(D.x+R(-10,10),D.y-heightOf()-70,`+${B.heal} HP`,'#6dff7a');
+  if(best.kind==='fairy'){sparkle(best.x,y,12);puff(best.x,y,8,'rgba(255,240,200,',60,4);float(best.x,y-18,`Gulp! *poof of sparkles* +${B.pts} pts`,'#ffe8ff');}
+  else if(best.kind==='vbat'){puff(best.x,y,7,'rgba(120,90,140,',60,4);float(best.x,y-18,`Gulp! Bat snack +${B.pts} pts`,'#e0c8ff');}
+  else{puff(best.x,y,8,'rgba(240,240,235,',70,4);float(best.x,y-18,`Snack! +${B.pts} pts`,'#ffd27a');}
+  return true;}
+// the northern barrier keeps every bird out of the north - except these, which belong there (and the gulls hold their own side)
+{const _ko=nrKeepOut;nrKeepOut=function(){const H=[];for(const b of birds)if(b.b3&&!b.dead){b.dead=true;H.push(b);}try{return _ko.apply(this,arguments);}finally{for(const b of H)b.dead=false;}};}
+{const _te=tryEatBird;tryEatBird=function(){if(b3Eat())return true;return _te.apply(this,arguments);};}
+// fire: fairies vanish in a sparkle puff, bats flap off dizzy (no remains)
+{const _ko=birdKO;birdKO=function(b,why){if(b.dead||(b.kind!=='fairy'&&b.kind!=='vbat'))return _ko.apply(this,arguments);b.dead=true;const B=BIRD[b.kind],y=b.y-(b.z||0);
+  G.stats.birdsSinged=(G.stats.birdsSinged||0)+1;G.stats.birdPts=(G.stats.birdPts||0)+B.pts;b3St(b.kind+'Singed');
+  if(b.kind==='fairy'){sparkle(b.x,y,10);puff(b.x,y,6,'rgba(255,230,200,',60,4);float(b.x,y-16,`Poof! The fairy zips off dizzy +${B.pts} pts`,'#ffe8ff');}
+  else{puff(b.x,y,6,'rgba(90,70,100,',60,4);float(b.x,y-16,`${why} The bat flaps off dizzy +${B.pts} pts`,'#e0c8ff');}};}
+// art
+function b3DrawFairy(b){const x=b.x,y=b.y-b.z,w=Math.sin(b.flap),gl=.5+.3*Math.sin(G.t*6+b.ph),c=b.c1||'#ffb0e8';
+  ell(b.x,b.y,5,2,'rgba(0,0,0,.12)');
+  for(let i=1;i<=4;i++){const tx=x-(b.vx||0)*.035*i,ty=y-(b.vy||0)*.035*i+i*1.5;ell(tx,ty,3-i*.55,3-i*.55,`rgba(255,240,170,${.6-i*.13})`);}
+  ell(x,y,13,13,`rgba(255,240,190,${.18*gl+.08})`);ell(x,y,7,7,`rgba(255,250,220,${.25*gl+.1})`);
+  ctx.globalAlpha=.7;ell(x-6,y-4-w*3,7,3.5+w*1.8,'#d8f4ff');ell(x+6,y-4-w*3,7,3.5+w*1.8,'#d8f4ff');ctx.globalAlpha=1;
+  ell(x,y+1.5,3,5,c);ell(x,y-5,3,3,'#ffe2c8');ell(x,y-7,3.2,1.6,c);
+  if(((G.fc||0)+b.id)%9===0)txt('✦',x+R(-10,10),y+R(-10,8),7,'#fff8c0','center',false);}
+function b3DrawBat(b){const x=b.x,y=b.y-b.z,w=Math.sin(b.flap),c='#3a2846',c2='#5c3c6e';
+  ell(b.x,b.y,7,2.4,'rgba(0,0,0,.15)');
+  poly([x-3,y-1,x-15,y-8-w*8,x-20,y-1-w*3,x-14,y+1-w*2,x-10,y+4],c2);poly([x+3,y-1,x+15,y-8-w*8,x+20,y-1-w*3,x+14,y+1-w*2,x+10,y+4],c2);
+  ell(x,y,5,6,c);poly([x-4.5,y-3,x-3.5,y-11,x-1,y-5],c);poly([x+4.5,y-3,x+3.5,y-11,x+1,y-5],c);
+  ell(x-2,y-1.5,2.6,2.6,'rgba(255,40,60,.35)');ell(x+2,y-1.5,2.6,2.6,'rgba(255,40,60,.35)');ell(x-2,y-1.5,1.2,1.2,'#ff3040');ell(x+2,y-1.5,1.2,1.2,'#ff3040');
+  if(b.full>0)txt('✦',x+R(-8,8),y-12+R(-4,4),8,'#ff6a8a','center',false);}
+{const _db=drawBird;drawBird=function(b,fly){if(b.kind==='fairy'){ctx.save();ctx.translate(b.x,b.y);ctx.scale(1.45,1.45);ctx.translate(-b.x,-b.y);try{return b3DrawFairy(b);}finally{ctx.restore();}}if(b.kind==='vbat')return b3DrawBat(b);return _db.apply(this,arguments);};}
+{const _ng=newGame;newGame=function(){const r=_ng.apply(this,arguments);B3.flocks.length=0;if(B3.homes)for(const h of B3.homes){h.on=false;h.n=0;h.lost=0;h.rt=0;}return r;};}
+{const _sa=svApply;svApply=function(){const r=_sa.apply(this,arguments);B3.flocks.length=0;if(B3.homes)for(const h of B3.homes){h.on=false;h.n=0;}for(const b of birds)if(b.b3){b.dead=true;b.gone=1;}return r;};}
 // ---- 45. phone-landscape HUD: the region banner and the big announcement banner are drawn LAST, as the bottom slot of the HUD centre lane (part6 hudSlot), so it never covers a bar ----
 const HUD_BANNER_LAST=1;
 {const _h=drawHUD;drawHUD=function(){_h.apply(this,arguments);ctx.setTransform(DPR,0,0,DPR,0,0);drawRegionBanner();if(!G.over&&!G.won&&!paused)drawAnnounce(VW<760);else UI.banner=null;};}

diff --git a/part6.js b/part6.js
@@ -101,7 +101,8 @@ function drawHUD(){ctx.setTransform(DPR,0,0,DPR,0,0);const sm=VW<760;UI.boxes=[]
     if(st){ctx.strokeStyle=`rgba(255,60,60,${pl})`;ctx.lineWidth=2;ctx.strokeRect(37,77+fb,214,16);
       if(!G.over&&!G.won)txt('⚠ STARVING! Eat a villager or animal! ⚠',VW/2,VH*.30,VW<760?18:24,`rgba(255,${Math.round(90+90*pl)},${Math.round(60+60*pl)},1)`,'center');}}
   const air=D.mode==='air';rect(20,78+hy,230,28,air?'#2a4a7a':'#4a3a22');
-  txt(air?(D.alt<.95?'⇧ TAKING OFF…':'⇧ FLYING'):(D.swim?'≈ SWIMMING (slower)':D.alt>0.02?'⇩ LANDING…':'⇩ ON THE GROUND'),30,97+hy,14,air?'#cfe6ff':'#f2dcb0');
+  // (item 46) no FLYING / ON THE GROUND label - the dragon's wings already show it; only the swim note + the F hint stay
+  if(!air&&D.swim)txt('≈ SWIMMING (slower)',30,97+hy,14,'#f2dcb0');
   txt(air?'F: land':'F: take off',242,97+hy,11,'#ddd','right',false);
   // wanted meter
   const cmpW=sm||hudLaneW()<260; // no room for the full WANTED panel: compact bar in the left column instead

diff --git a/README.md b/README.md
@@ -143,6 +143,10 @@ The map doubles northward. A glowing **magic barrier** of crystal peaks runs alo
 - **Central citadels:** each side has one grand castle at the centre of its lands. **Lumenspire Citadel** (light, white and silver, with ice towers) is at about x −4400, y −4950, and **Doomforge Citadel** (dark, black iron, spikes and lava, with lightning towers) is at about x −4400, y −9100. Each has walls, a gate, corner towers, a keep holding its egg, a mixed garrison that musters when the egg is taken, patrols, and a rescue charge after the dragon carries the egg off. The big armies and the dark vanguards muster at and march from their citadel, and go back there afterwards. Old saves migrate the eggs to the citadels.
 - **Egg in flight:** a carried egg is drawn in the dragon's claws while flying, with a soft white or dark glow, and the HUD shows a small egg icon.
 - **Fixed-width bars:** every HUD bar (health, stamina, fire, lava, food, boss, ally and guardian bars) keeps a fixed width (the player's bars are 230 px), and only the fill changes. The numbers are shown as text. This was checked in portrait, landscape and Flip layouts.
+- **Fairies (light lands):** small glowing fairies with a sparkle trail flutter around the elven glowing trees, sacred glades and hobbit flower beds. They flee, dart and dodge (a bite misses about a third of the time). A brave one may give a tiny pixie-dust sting (−1). You can gulp one (small snack, sparkle puff). Fire makes them go *poof*. A glade that loses fairies gets new ones after a while, when the dragon is away.
+- **Vampire bats (dark lands):** cartoony purple bats with red eyes (no gore) swarm around goblin and orc caves, the cyclops cave, dark towers and burnt trees. They fly erratically and swoop in for a small nibble (−1), then a tiny red-sparkle heal for the bat. Edible, hurt by fire, and they come back over time. They don't join the dark armies.
+- **Seagulls (seas and coasts):** small flocks circle over the southern sea, the northern sea on both sides of the wind wall, the shorelines, the dock, the lighthouse and passing trade and fishing ships (they follow the ship). Flocks land on the dock, the lighthouse rocks and beaches, and scatter with a squawk when the dragon comes close. Edible and hurt by fire. Only a few flocks exist at once, near the dragon, so performance stays within budget.
+- **No FLYING / ON THE GROUND label:** the health panel no longer spells out flying or grounded, because the dragon's wings already show it. The swim note (≈ SWIMMING) and the F hint stay.
 - **Alpha trolls and centaurs:** 3 **troll caves** in the dark north, each home to a white alpha troll with 3–4 regular trolls, and 3 **sacred glades** in the light north, each home to a silver-and-gold alpha centaur with 3–4 regular centaurs. They follow the lion and white-wolf alpha rules: they defend the turf, the alpha's call rallies the band (+12% damage, +8% speed, 10% less damage taken, 10 s, orange glow), helpers refill about every 40 s, and a new alpha takes over about 75 s after one is beaten. An alpha can only be eaten once worn below 80%. A few regular trolls and centaurs still roam freely. From level 4 an alpha may lead its band in the big armies and goes home afterwards.
 - **Wizard's tower and magic shield:** while the wizard is alive, his tower is invulnerable. Every attack on the tower or on him (fire, lava, stomp, claw, dive, bite) drains his **magic shield** instead, shown as a shimmering bubble that fades as it drops. When the shield breaks he is beaten, goes dizzy and can be eaten (it counts as food). His tower can then be burned or smashed into rubble. He, his tower and his shield return when your dragon is defeated.
 
